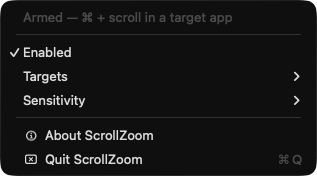
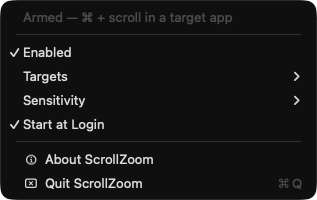
Merge pull request #16 from erykszczesniak/feature/login-item

diff --git a/Sources/App/SZAppDelegate.m b/Sources/App/SZAppDelegate.m
@@ -1,6 +1,7 @@
 #import "SZAppDelegate.h"
 
 #import <Carbon/Carbon.h>
+#import <ServiceManagement/ServiceManagement.h>
 
 #import "SZAccessibility.h"
 #import "SZHotKey.h"
@@ -40,6 +41,9 @@ static const NSTimeInterval SZTrustWatchInterval = 5.0;
     };
     self.menuController.openSettingsHandler = ^{
         [weakSelf.accessibility openAccessibilitySettings];
+    };
+    self.menuController.toggleLoginItemHandler = ^{
+        [weakSelf toggleLoginItem];
     };
     [self.menuController install];
 
@@ -118,7 +122,32 @@ static const NSTimeInterval SZTrustWatchInterval = 5.0;
         self.preferences.preciseDeltaThreshold;
 }
 
+#pragma mark - Login item
+
+- (void)toggleLoginItem {
+    SMAppService *service = SMAppService.mainAppService;
+    NSError *error = nil;
+    BOOL succeeded;
+    if (service.status == SMAppServiceStatusEnabled) {
+        succeeded = [service unregisterAndReturnError:&error];
+    } else {
+        succeeded = [service registerAndReturnError:&error];
+    }
+
+    if (!succeeded) {
+        NSAlert *alert = [[NSAlert alloc] init];
+        alert.alertStyle = NSAlertStyleWarning;
+        alert.messageText = @"Could not update the login item";
+        alert.informativeText = error.localizedDescription ?: @"Unknown error.";
+        [alert runModal];
+    }
+}
+
 #pragma mark - SZMenuStateProviding
+
+- (BOOL)isLoginItemEnabled {
+    return SMAppService.mainAppService.status == SMAppServiceStatusEnabled;
+}
 
 - (BOOL)isPermissionGranted {
     return self.permissionGate.isTrusted;

diff --git a/Sources/UI/SZMenuController.m b/Sources/UI/SZMenuController.m
@@ -14,6 +14,7 @@ static const double SZSensitivityHighThreshold = 8.0;
 @property (nonatomic, strong) NSMenuItem *enabledItem;
 @property (nonatomic, strong) NSMenuItem *targetsItem;
 @property (nonatomic, strong) NSMenuItem *sensitivityItem;
+@property (nonatomic, strong) NSMenuItem *loginItem;
 @property (nonatomic, strong) NSMenuItem *settingsItem;
 
 @end
@@ -73,6 +74,12 @@ static const double SZSensitivityHighThreshold = 8.0;
     self.sensitivityItem.submenu = [self buildSensitivityMenu];
     [menu addItem:self.sensitivityItem];
 
+    self.loginItem = [[NSMenuItem alloc] initWithTitle:@"Start at Login"
+                                                action:@selector(toggleLoginItem:)
+                                         keyEquivalent:@""];
+    self.loginItem.target = self;
+    [menu addItem:self.loginItem];
+
     [menu addItem:[NSMenuItem separatorItem]];
 
     self.settingsItem = [[NSMenuItem alloc] initWithTitle:@"Open Accessibility Settings…"
@@ -128,6 +135,8 @@ static const double SZSensitivityHighThreshold = 8.0;
                                                         : NSControlStateValueOff;
     self.enabledItem.enabled = permitted;
     self.settingsItem.hidden = permitted;
+    self.loginItem.state = [self.stateProvider isLoginItemEnabled] ? NSControlStateValueOn
+                                                                   : NSControlStateValueOff;
 
     [self rebuildTargetsMenu];
 
@@ -196,6 +205,12 @@ static const double SZSensitivityHighThreshold = 8.0;
 - (void)selectSensitivity:(NSMenuItem *)sender {
     self.preferences.preciseDeltaThreshold = [sender.representedObject doubleValue];
     [self notifyConfigurationChanged];
+}
+
+- (void)toggleLoginItem:(NSMenuItem *)sender {
+    if (self.toggleLoginItemHandler) {
+        self.toggleLoginItemHandler();
+    }
 }
 
 - (void)showAbout:(NSMenuItem *)sender {

diff --git a/Sources/UI/SZMenuController.h b/Sources/UI/SZMenuController.h
@@ -14,6 +14,9 @@ NS_ASSUME_NONNULL_BEGIN
 /// now, nil otherwise (passthrough).
 - (nullable NSString *)activeTargetName;
 
+/// Whether the agent is registered to start at login.
+- (BOOL)isLoginItemEnabled;
+
 @end
 
 /// Owns the NSStatusItem and the agent's menu: status line, master toggle,
@@ -32,6 +35,9 @@ NS_ASSUME_NONNULL_BEGIN
 
 /// Called from the "Open Accessibility Settings…" item.
 @property (nonatomic, copy, nullable) void (^openSettingsHandler)(void);
+
+/// Called from the "Start at Login" item.
+@property (nonatomic, copy, nullable) void (^toggleLoginItemHandler)(void);
 
 /// Creates the status item and attaches the menu.
 - (void)install;

diff --git a/Sources/Core/SZGestureInterpreter.m b/Sources/Core/SZGestureInterpreter.m
@@ -1,4 +1,4 @@
-#import "SZGestureInterpreter.h"
+ #import "SZGestureInterpreter.h"
 
 static const double SZDefaultPreciseDeltaThreshold = 15.0;
 static const NSTimeInterval SZDefaultThrottleInterval = 0.05;

diff --git a/README.md b/README.md
@@ -2,7 +2,7 @@
 
 ⌘ + scroll wheel zoom for Xcode (macOS).
 
-![ScrollZoom menu](docs/menu.png)
+![⌘ + scroll zooming Xcode](docs/demo.gif)
 
 ## Requirements
 
@@ -17,6 +17,19 @@ open ScrollZoom.xcodeproj   # build & run (⌘R)
 ```
 
 Grant Accessibility when prompted, then hold ⌘ and scroll in Xcode. ⌃⌥⌘Z pauses/resumes.
+
+## Install for good
+
+```
+xcodegen generate
+xcodebuild -scheme ScrollZoom -configuration Release -derivedDataPath build build
+cp -R build/Build/Products/Release/ScrollZoom.app /Applications/
+open /Applications/ScrollZoom.app
+```
+
+Then tick **Start at Login** in the menu — done, it survives reboots:
+
+![Start at Login](docs/menu.png)
 
 ## How it works & limits
 